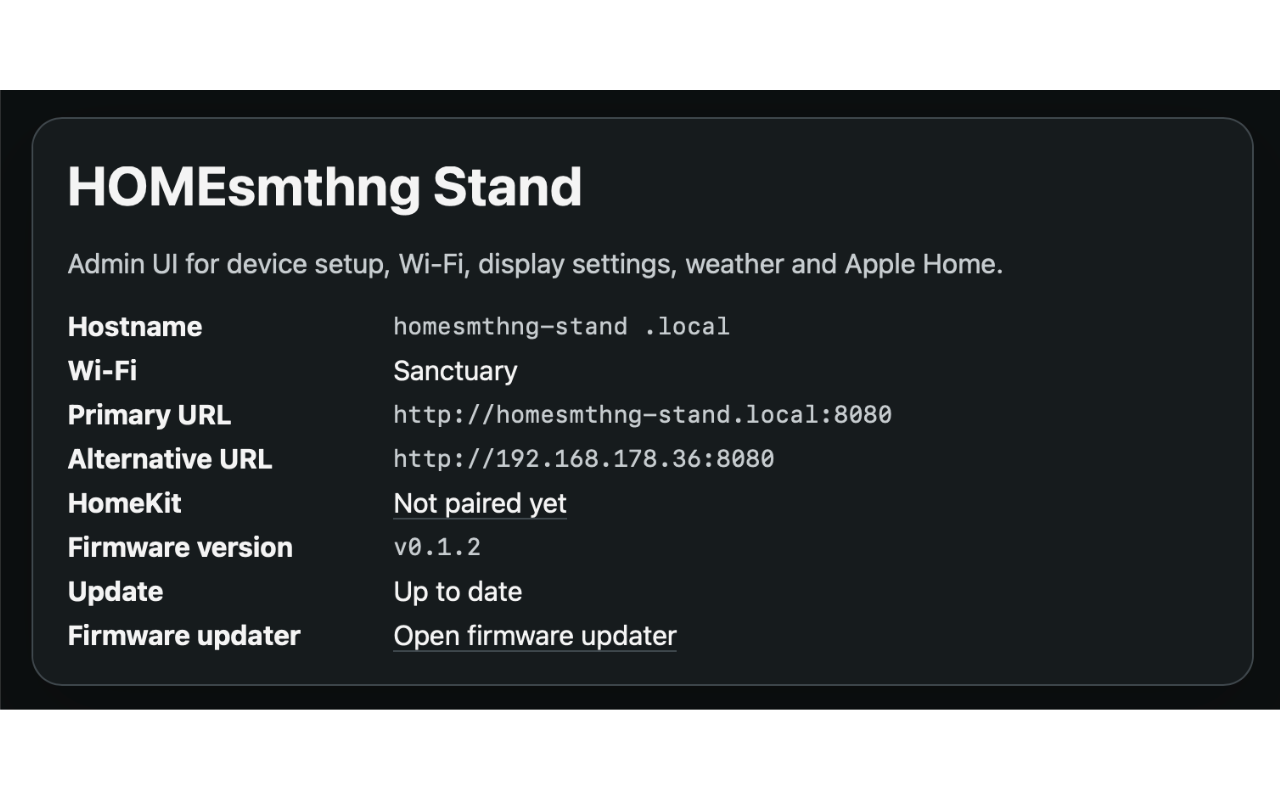
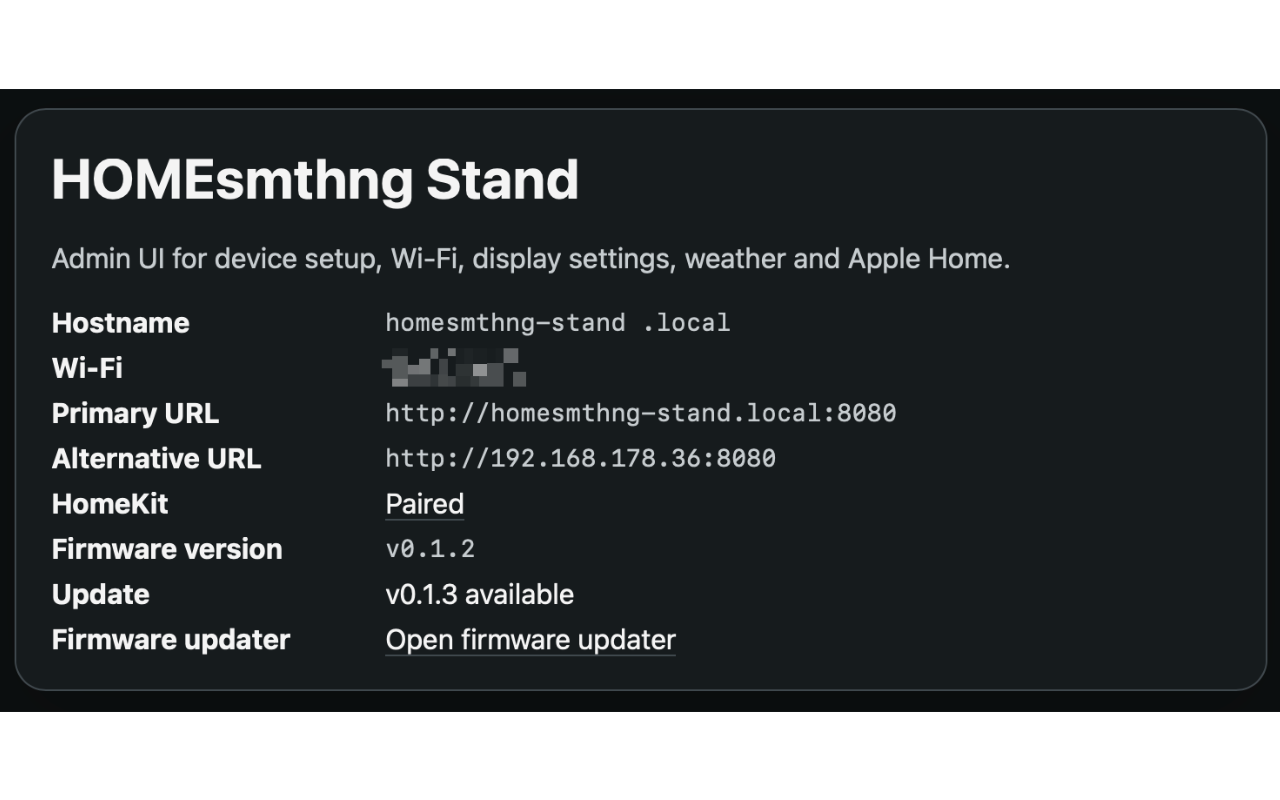
update pictures

diff --git a/web-flasher/tests/guide-content.test.js b/web-flasher/tests/guide-content.test.js
@@ -1,7 +1,10 @@
 import assert from "node:assert/strict";
+import { readFile } from "node:fs/promises";
 import test from "node:test";
 
 import { guideContent, isExternalUrl, isYouTubeId } from "../guide/content.js";
+
+const guideHtml = await readFile(new URL("../guide/index.html", import.meta.url), "utf8");
 
 const expectedBoardIds = [
   "trgb_full_circle",
@@ -30,6 +33,13 @@ const expectedScreenshots = [
   "web-appearance-standby.png",
   "web-time-weather-battery.png",
 ];
+
+test("guide hero explains the project before the getting-started instructions", () => {
+  const description = "HOMEsmthng turns supported ESP32-S3 display boards into a customizable HomeKit smart";
+  const instructions = "Choose one of three supported round displays";
+  assert.ok(guideHtml.indexOf(description) >= 0);
+  assert.ok(guideHtml.indexOf(description) < guideHtml.indexOf(instructions));
+});
 
 test("guide contains every supported board in firmware order", () => {
   assert.deepEqual(guideContent.boards.map((board) => board.id), expectedBoardIds);

diff --git a/web-flasher/guide/index.html b/web-flasher/guide/index.html
@@ -26,6 +26,10 @@
         <p class="eyebrow">Start here</p>
         <h1 id="guide-title">Build your HOMEsmthng display.</h1>
         <p class="hero-copy">
+          HOMEsmthng turns supported ESP32-S3 display boards into a customizable HomeKit smart
+          switch dashboard.
+        </p>
+        <p class="hero-copy">
           Choose one of three supported round displays, add the enclosure and power option that
           fit your build, then install the firmware from a desktop browser. No programming required.
         </p>